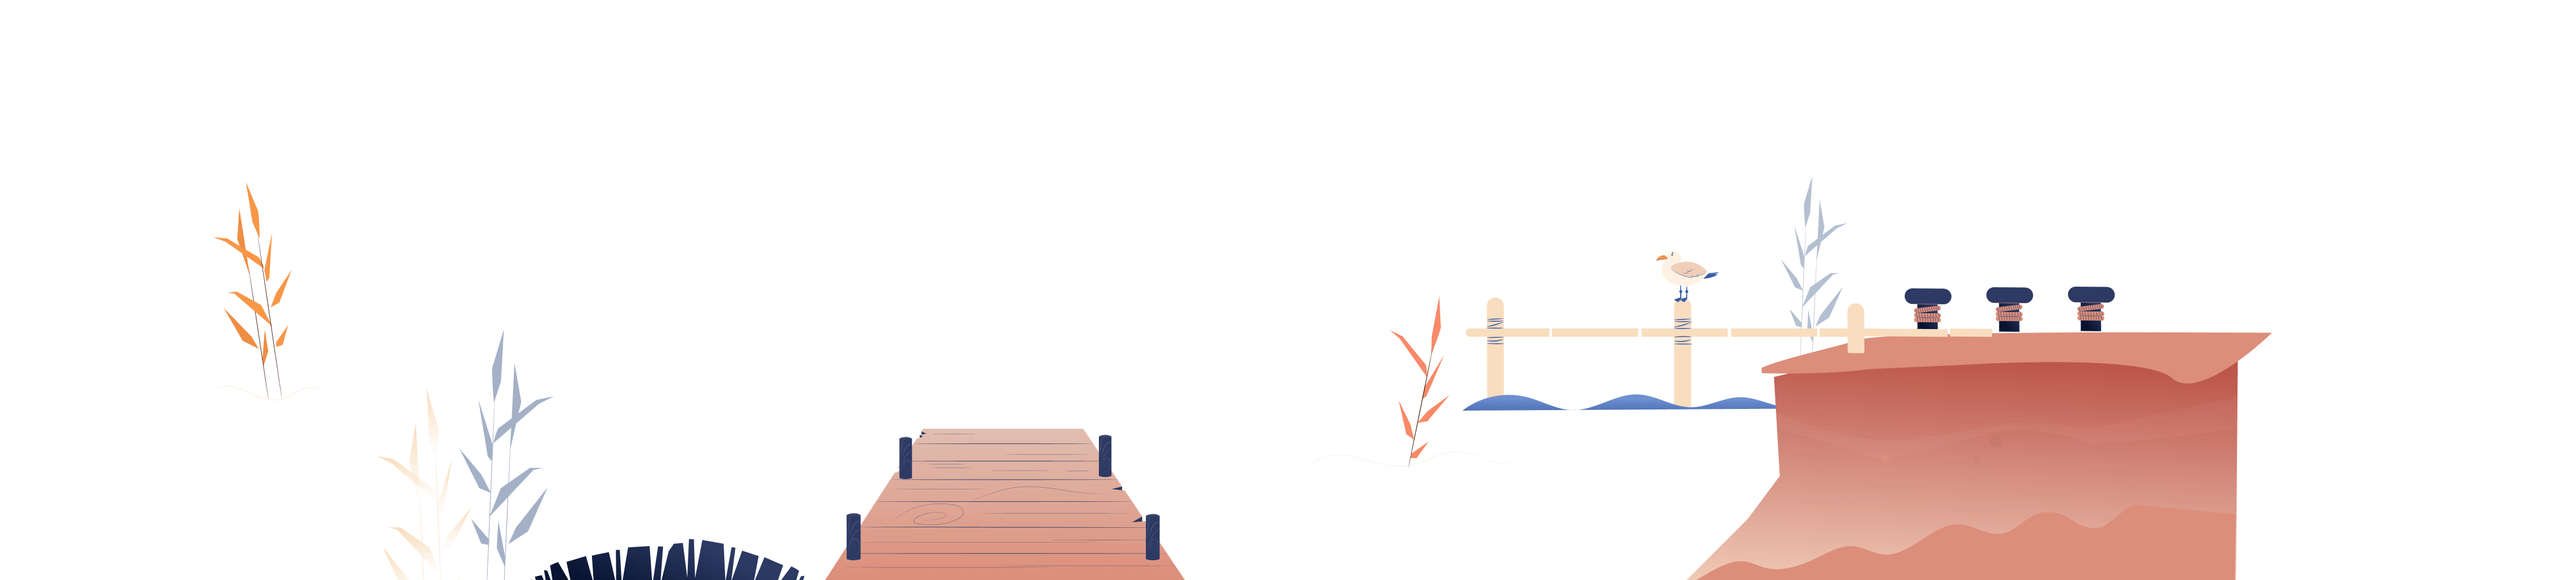
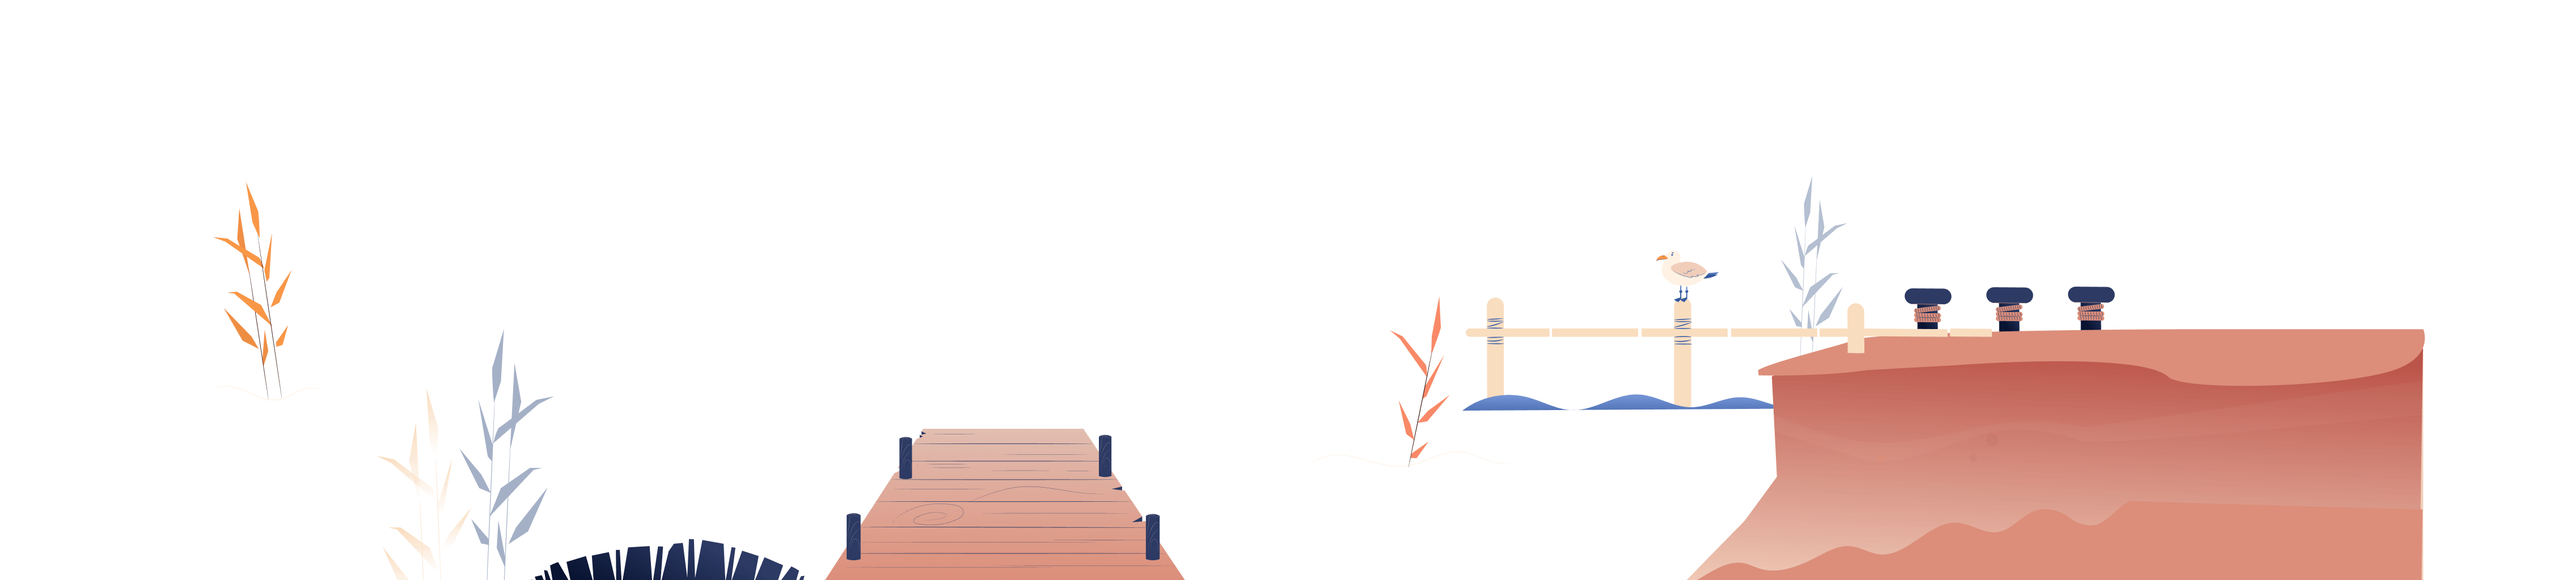
chapter 10 updated

Changed region(s): [[0.7759, 0.5625, 0.9621, 1.0], [0.6828, 0.625, 0.7138, 0.6562]]

diff --git a/components/Chapter10.vue b/components/Chapter10.vue
@@ -25,7 +25,7 @@
         <img
           class="b--ss-a__ft-items__parallax"
           ref="parallax-ft"
-          :style="{ left: '300%' }"
+          :style="{ left: '253%' }"
           alt="front-parallax"
           v-lazy="require(`@/assets/img/chapter-10/front-parallax.png`)"
         />
@@ -36,7 +36,7 @@
         />
       </div>
       <!-- animation out of content, fisherman and plant needs more z-index than ft-items and ft-items needs more z-index than content -->
-      <div class="b--chapter10-a__artwork" ref="fisherman"  :style="{ left: '336%' }">
+      <div class="b--chapter10-a__artwork" ref="fisherman"  :style="{ left: '291%' }">
         <div
           class="b--motion-f"
           v-lazy:background-image="
@@ -57,7 +57,7 @@
         <div
           class="b--chapter10-a__content"
           :class="'b--chapter10-a__content--' + `${this.lang}`"
-          ref="boxContent"  :style="{ left: '298%' }"
+          ref="boxContent"  :style="{ left: '248%' }"
         >
           <v-card-f
             :title="chapter.intro_title"
@@ -119,10 +119,10 @@ export default {
     AsambleParallaxObjs() {
       var motion = [
         { obj: this.$refs['parallax-bg'], intensity: 1 },
-        { obj: this.$refs['parallax-ft'], intensity: 40 },
-        { obj: this.$refs['parallax-ft'], intensity: 40 },
-        { obj: this.$refs['fisherman'], intensity: 40 },
-        { obj: this.$refs['boxContent'], intensity: 40 },
+        { obj: this.$refs['parallax-ft'], intensity: 35 },
+        { obj: this.$refs['parallax-ft'], intensity: 35 },
+        { obj: this.$refs['fisherman'], intensity: 35 },
+        { obj: this.$refs['boxContent'], intensity: 35 },
       ]
       motion.forEach((item) => {
         this.parallaxMove({
